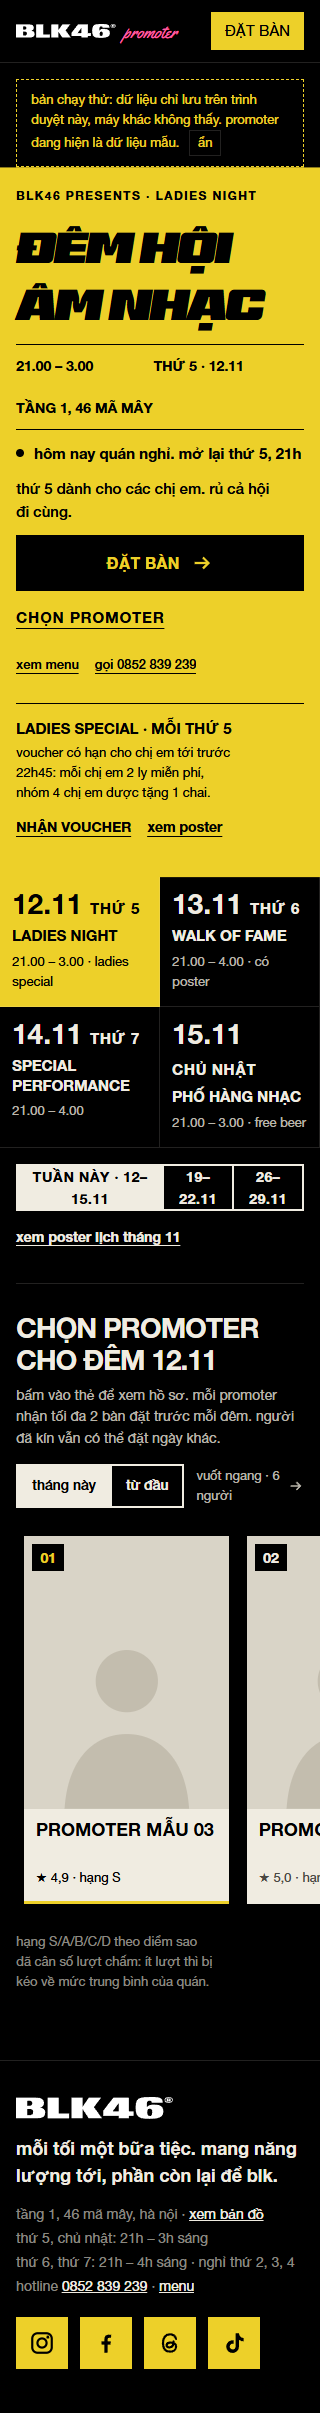
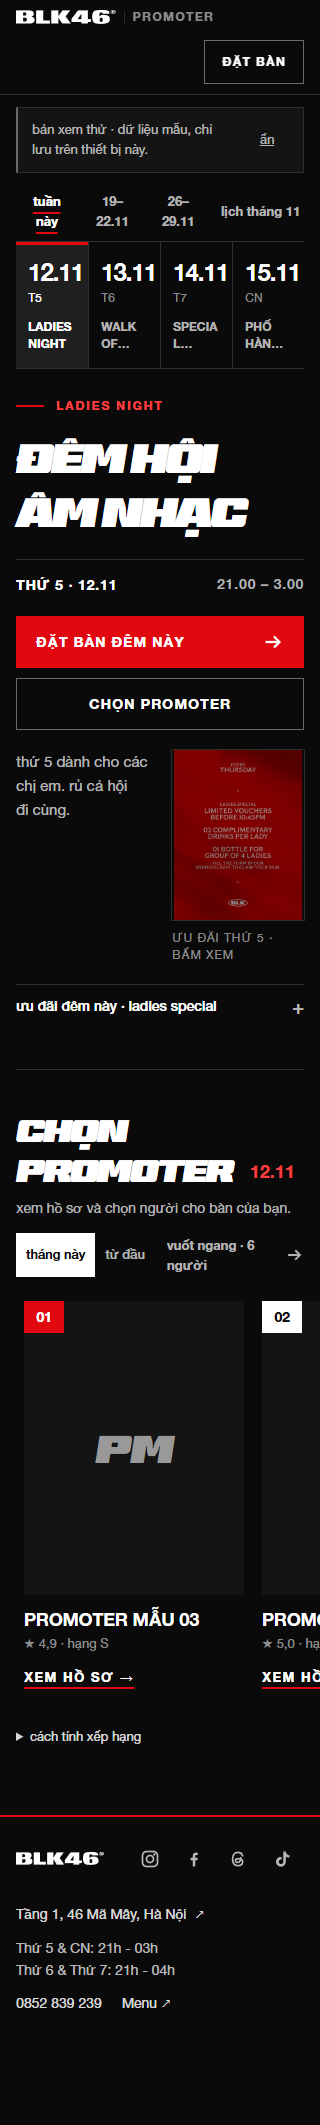
style: pro redesign of guest pages
Professional pass on the black, white and red system after a
three-agent audit (visual, UX flow, accessibility).

- Tokens for surfaces, lines, text tiers and accent hover; no raw hex
  outside :root.
- Header: wordmark with a quiet PROMOTER label, 44px nav targets,
  outlined book button on mobile so the red stays for the hero CTA.
- Night picker: selected night is a dark tile with a red top bar,
  two-line titles on mobile, white focus ring.
- Hero: poster sits beside the event text on mobile, top-aligned on
  desktop; dates scale with the viewport.
- Promoter cards: white rank chips (red only for #01), underlined
  "xem hồ sơ" caption, no jumpy hover.
- Profile sheet: red eyebrow, red rule and outlined forte tag.
- Booking ticket: red top border, neutral event bar, underlined back
  link, clearer input focus.
- Booking errors: message in a red-edged box, the field at fault gets
  focus and aria-invalid, cleared as soon as the guest types; phone is
  checked before date and time.
- Voucher chips: arrow keys ignore modifier keys and same-target moves.
- Footer: red top rule.

QA: token check OK, regression 18/18, typography 5/5, no horizontal
overflow or page errors at 320/390/768/1024/1440.

diff --git a/public/index.html b/public/index.html
@@ -23,9 +23,6 @@
 <link rel="icon" type="image/png" sizes="32x32" href="brand/favicon-32.png?v=3">
 <link rel="apple-touch-icon" href="brand/apple-touch-icon.png?v=3">
 <script type="application/ld+json">{"@context":"https://schema.org","@type":"NightClub","name":"BLK46","url":"https://blk46club.github.io/promoter/","image":"https://blk46club.github.io/promoter/brand/share.jpg","telephone":"+84852839239","address":{"@type":"PostalAddress","streetAddress":"Tầng 1, 46 Mã Mây","addressLocality":"Hà Nội","addressCountry":"VN"},"hasMap":"https://share.google/SntJEvVotOjQeHLYL","hasMenu":"https://blkmenu.vercel.app","openingHoursSpecification":[{"@type":"OpeningHoursSpecification","dayOfWeek":["Thursday","Sunday"],"opens":"21:00","closes":"03:00"},{"@type":"OpeningHoursSpecification","dayOfWeek":["Friday","Saturday"],"opens":"21:00","closes":"04:00"}],"sameAs":["https://www.instagram.com/blk.hanoi/","https://www.threads.com/@blk.hanoi","https://www.tiktok.com/@blk.hanoi","https://www.facebook.com/share/1FHCWCqqY9/"]}</script>
-<link rel="preconnect" href="https://fonts.googleapis.com">
-<link rel="preconnect" href="https://fonts.gstatic.com" crossorigin>
-<link rel="stylesheet" href="https://fonts.googleapis.com/css2?family=Yellowtail&display=swap">
 <link rel="preload" href="fonts/BT-Brik-3XL-Oblique-VI.woff2" as="font" type="font/woff2" crossorigin>
 <style>
 /* Vietnamese extension generated by the owner's VinaDau engine. */
@@ -95,6 +92,14 @@
   --hard:5px 5px 0;
   --hard-press:3px 3px 0;
   --hard-lg:10px 10px 0; /* bóng của poster dán trên tờ flyer vàng */
+  --surface:#141414;
+  --surface-2:#1F1F1F;
+  --line-1:#2E2E2E;
+  --line-2:#6B6B6B;
+  --text-2:#B3B3B3;
+  --text-3:#8C8C8C;
+  --accent-hover:#C2060E;
+  --head-bg:rgba(10,10,10,.92);
   color-scheme:dark;
 }
 *{box-sizing:border-box}
@@ -114,7 +119,7 @@ header.top .wrap{display:flex;align-items:center;gap:16px;padding-block:12px;fle
 .mark{display:inline-flex;align-items:center;gap:10px}
 .mark img{height:18px;width:auto;display:block}
 /* chữ idol cạnh logo: hồng, kiểu chữ ký. màu riêng của trang idol, không thuộc bảng màu chính BLK46 */
-.mark span{font-family:"Yellowtail",cursive;font-weight:400;font-size:var(--fs-xl);line-height:1;color:var(--idol-pink);letter-spacing:0;transform:translateY(1px)}
+.mark span{font-family:var(--body);font-size:var(--fs-2xs);font-weight:700;letter-spacing:.14em;text-transform:uppercase;color:var(--text-3);padding-left:12px;border-left:1px solid var(--line-1);line-height:1;transform:none}
 nav.tabs{display:flex;gap:4px;margin-left:auto;flex-wrap:wrap}
 nav.tabs a{text-decoration:none;padding:6px 12px;border:1px solid transparent;font-size:var(--fs-sm);letter-spacing:.06em;text-transform:uppercase;font-weight:500}
 nav.tabs a[aria-current="page"]{border-color:var(--acid);color:var(--acid)}
@@ -1044,6 +1049,146 @@ body.paper .tk .hold-note{color:var(--paper)}
 body.paper .tk .hold-note.bad{color:var(--bad-text)}
 body.paper .tk .tmap-wrap,body.paper .prv-tags .tag,body.paper .prv-item .tag{border-color:var(--stage-line)}
 body.paper .tk .book-help{border-top-color:var(--line)}
+/* ===== Guest design system: pro redesign 12/11 =====
+   Black stage, white type, red only where it means "act" or "now":
+   primary CTA, kicker rule, selected night, #1 rank, roster date. */
+/* header */
+header.top{background:var(--head-bg);-webkit-backdrop-filter:blur(12px);backdrop-filter:blur(12px);border-bottom-color:var(--line-1)}
+header.top .wrap{min-height:64px;padding-block:10px}
+nav.tabs a{color:var(--text-2);font-size:var(--fs-2xs);font-weight:600;letter-spacing:.12em;padding:8px 12px;min-height:44px;display:inline-flex;align-items:center}
+nav.tabs a:hover{color:var(--paper)}
+nav.tabs a[aria-current="page"]{color:var(--paper);border-color:transparent;box-shadow:inset 0 -2px var(--accent)}
+.hbook{font-family:var(--body);font-size:var(--fs-2xs);letter-spacing:.12em;text-transform:uppercase}
+.hbook:hover{background:var(--accent-hover);color:var(--accent-on)}
+header.top :focus-visible,footer.foot :focus-visible,body.v-lineup header.top :focus-visible,body.v-lineup footer.foot :focus-visible{outline-color:var(--paper)}
+/* focus: white ring everywhere on the black stage */
+body.v-lineup :focus-visible,body.paper #app :focus-visible,.sdlg :focus-visible,.pdlg :focus-visible{outline-color:var(--paper)}
+/* demo / warning banner */
+body.v-lineup .banner[data-kind="warn"],body.paper .banner[data-kind="warn"]{background:var(--surface);color:var(--text-2);border:1px solid var(--line-1);border-left:2px solid var(--line-2);padding:10px 14px;font-size:var(--fs-xs)}
+/* night strip */
+body.v-lineup .wk-row{border-color:var(--line-1)}
+body.v-lineup .wk-n+.wk-n{border-left-color:var(--line-1)}
+body.v-lineup .wk-n{color:var(--text-3);transition:background-color .15s ease,color .15s ease}
+body.v-lineup .wk-d b{color:var(--paper)}
+body.v-lineup .wk-n:hover{background:var(--surface)}
+body.v-lineup .wk-n[aria-pressed="true"],body.v-lineup .wk-n[aria-pressed="true"]:hover{background:var(--surface-2);color:var(--paper);box-shadow:inset 0 3px var(--accent)}
+body.v-lineup .wk-n[aria-pressed="true"] *,body.v-lineup .wk-n[aria-pressed="true"] .wk-d b,body.v-lineup .wk-n[aria-pressed="true"] .wk-x,body.v-lineup .wk-n[aria-pressed="true"] .wk-t{color:inherit}
+body.v-lineup .wk-n:focus-visible{outline:2px solid var(--paper);outline-offset:-4px}
+body.v-lineup .wk-n[aria-pressed="true"]:focus-visible{outline:2px solid var(--paper);outline-offset:-6px}
+@media (max-width:699px){body.v-lineup .wk-t{display:-webkit-box;-webkit-line-clamp:2;-webkit-box-orient:vertical;overflow:hidden;margin-top:6px;font-size:var(--fs-2xs);color:var(--text-2)}}
+body.v-lineup .wk .sq,body.v-lineup .wk-mp{color:var(--text-2);text-decoration:none}
+body.v-lineup .wk .sq:hover,body.v-lineup .wk-mp:hover{color:var(--paper)}
+body.v-lineup .wk .sq[aria-pressed="true"]{color:var(--paper);text-decoration:underline;text-decoration-color:var(--accent);text-decoration-thickness:2px;text-underline-offset:6px}
+/* hero: editorial on black, the red poster carries the colour */
+body.v-lineup .fly{background:transparent;color:var(--paper);padding:0;margin-block:28px 40px;gap:20px var(--gap)}
+body.v-lineup .fly :focus-visible{outline-color:var(--paper);outline-offset:4px}
+body.v-lineup .fly-pre{display:flex;align-items:center;gap:12px;color:var(--acid);font-size:var(--fs-2xs);font-weight:700;letter-spacing:.16em;text-transform:uppercase}
+body.v-lineup .fly-pre::before{content:"";flex:none;width:28px;height:2px;background:var(--accent)}
+body.v-lineup .fly-dj{font-size:min(96px,calc((100vw - 64px) / var(--f,4)))}
+body.v-lineup .fly-row{display:flex;flex-wrap:wrap;justify-content:space-between;gap:4px 16px;margin-top:4px;padding-top:14px;border-top:1px solid var(--line-1);color:var(--paper);font-size:var(--fs-ui);font-weight:700;letter-spacing:.06em;text-transform:uppercase;font-variant-numeric:tabular-nums}
+body.v-lineup .fly-row p:last-child{color:var(--text-2);font-weight:500}
+body.v-lineup .fly-ev{color:var(--text-2);font-size:var(--fs-body);font-weight:400;line-height:1.6}
+body.v-lineup .fly-ev .x{color:var(--text-3);font-size:var(--fs-xs);letter-spacing:.06em}
+body.v-lineup .fly .btn-ink{background:var(--accent);color:var(--accent-on);min-height:52px;padding:0 20px;justify-content:space-between;font-size:var(--fs-ui);letter-spacing:.08em;text-transform:uppercase}
+body.v-lineup .fly .btn-ink:hover{background:var(--accent-hover);color:var(--accent-on)}
+body.v-lineup .fly .btn-ink svg{transition:transform .2s ease}
+body.v-lineup .fly .btn-line{min-height:52px;padding:0 20px;border:1px solid var(--line-2);background:transparent;color:var(--paper);font-size:var(--fs-ui);font-weight:700;letter-spacing:.08em;text-transform:uppercase;text-decoration:none}
+body.v-lineup .fly .btn-line:hover{border-color:var(--paper);color:var(--paper);text-decoration:none}
+body.v-lineup .fly-art .pic{box-shadow:none}
+body.v-lineup .fly-art.pst .pic{border:0;box-shadow:0 0 0 1px var(--line-1)}
+body.v-lineup .fly-cap{color:var(--text-3);font-size:var(--fs-2xs);letter-spacing:.08em;text-transform:uppercase;margin-top:10px}
+body.v-lineup .promo{color:var(--paper);border-color:var(--line-1)}
+body.v-lineup .promo summary::after,body.v-lineup .promo-pst{color:var(--text-2)}
+body.v-lineup .promo-go{color:var(--paper);text-decoration-color:var(--accent)}
+@media (prefers-reduced-motion:no-preference){
+  body.v-lineup .fly .btn-ink:hover svg{transform:translateX(4px)}
+  body.v-lineup .fly-art.pst .pic img{transition:transform .5s cubic-bezier(.2,.7,.2,1)}
+  body.v-lineup .fly-art.pst .pic:hover img{transform:scale(1.02)}
+}
+@media (min-width:700px){
+  body.v-lineup .fly{padding:0;margin-block:36px 48px}
+  body.v-lineup .fly-dj{font-size:min(112px,calc((min(100vw,1180px) - 72px) / var(--f,4)))}
+  body.v-lineup .fly .btn-ink{flex:0 1 auto;min-width:260px}
+  body.v-lineup .fly .btn-line{width:auto}
+}
+@media (min-width:900px){
+  body.v-lineup .fly{--art:340px;--gap:72px;padding:0;margin-block:48px 64px;gap:24px var(--gap)}
+  body.v-lineup .fly-dj{font-size:min(120px,calc((min(100vw,1180px) - 72px - var(--art) - var(--gap)) / var(--f,4)))}
+  body.v-lineup .fly-pre{font-size:var(--fs-xs)}
+  body.v-lineup .fly-row{font-size:var(--fs-lead)}
+  body.v-lineup .fly-ev{font-size:var(--fs-lead)}
+}
+/* roster */
+body.v-lineup .ros{border-top:1px solid var(--line-1);padding-block:40px 56px}
+body.v-lineup .ros-head h2{font-size:clamp(32px,4.4vw,52px);line-height:1.25}
+body.v-lineup .ros-date{color:var(--acid);font-size:clamp(1.125rem,4.5vw,1.5rem)}
+body.v-lineup .ros-head p,body.v-lineup .ros-swipe{color:var(--text-2)}
+body.v-lineup .ros .sq{color:var(--text-2);text-decoration:none}
+body.v-lineup .ros .sq:hover{color:var(--paper);text-decoration:none}
+body.v-lineup .ros .sq[aria-pressed="true"],body.v-lineup .ros .sq[aria-pressed="true"]:hover{background:var(--paper);color:var(--ink)}
+/* promoter cards: photo first, quiet caption, one red mark for #1 */
+body.v-lineup .pc,body.v-lineup .pc.full{background:transparent;color:var(--paper);gap:0;padding-bottom:0}
+body.v-lineup .pc-ph,body.v-lineup .pc:nth-child(even) .pc-ph,body.v-lineup .pc.full .pc-ph,body.v-lineup .pc-ini{background:var(--surface)}
+body.v-lineup .pc-txt{padding:14px 0 0;gap:4px}
+body.v-lineup .pc-name{letter-spacing:-.01em}
+body.v-lineup .pc-meta,body.v-lineup .pc.top .pc-meta,body.v-lineup .pc.full .pc-meta{color:var(--text-3)}
+body.v-lineup .pc-no,body.v-lineup .pc.full .pc-no{left:0;top:0;background:var(--paper);color:var(--ink);min-width:40px;padding:6px 10px;font-size:var(--fs-ui);font-variant-numeric:tabular-nums}
+body.v-lineup .pc.top .pc-no{background:var(--accent);color:var(--accent-on)}
+body.v-lineup .pc.full .pc-ph img{opacity:.4;filter:grayscale(1)}
+body.v-lineup .pc-stamp{inset:auto 0 0 0;display:block}
+body.v-lineup .pc-stamp b{display:block;transform:none;border:0;background:var(--paper);color:var(--ink);font-family:var(--body);font-size:var(--fs-2xs);font-weight:700;letter-spacing:.12em;text-align:center;padding:8px 10px}
+body.v-lineup .pc-txt::after{color:var(--paper);font-size:var(--fs-xs);letter-spacing:.12em;text-transform:uppercase;text-decoration-line:underline;text-decoration-color:var(--accent);text-decoration-thickness:2px;text-underline-offset:5px;margin-top:8px}
+body.v-lineup .pc:focus-visible{outline:2px solid var(--paper);outline-offset:4px}
+@media (hover:hover){
+  body.v-lineup .pc:not([disabled]):not(:focus-visible):hover,body.v-lineup .pc.top:not([disabled]):not(:focus-visible):hover{outline:0;transform:none}
+  body.v-lineup .pc:not([disabled]):hover .pc-name{text-decoration:underline;text-decoration-color:var(--accent);text-decoration-thickness:2px;text-underline-offset:4px}
+  body.v-lineup .pc:not([disabled]):hover .pc-txt::after{text-decoration-color:var(--paper)}
+}
+@media (hover:hover) and (prefers-reduced-motion:no-preference){
+  body.v-lineup .pc:hover{transform:none}
+  body.v-lineup .pc-ph img{transition:transform .5s cubic-bezier(.2,.7,.2,1)}
+  body.v-lineup .pc:not([disabled]):hover .pc-ph img{transform:scale(1.04)}
+}
+/* primary actions: one red, darker on hover (white text keeps 6.3:1) */
+.sdlg .sheet-cta:hover,.mbar-go:hover,.pdlg .btn-acid:hover,body.paper .tk button.cta[type="submit"]:hover,body.paper .cta:not([type="submit"]):not(.cta-line):hover{background:var(--accent-hover);color:var(--accent-on)}
+/* footer and mobile bar */
+footer.foot,body.v-lineup footer.foot,body.paper footer.foot{border-top:2px solid var(--accent)}
+.mbar{background:var(--head-bg);-webkit-backdrop-filter:blur(12px);backdrop-filter:blur(12px);border-top:1px solid var(--line-1)}
+.mbar-tel{border-color:var(--line-2);color:var(--paper)}
+.mbar-tel:hover{background:var(--surface);color:var(--paper)}
+/* booking + voucher forms: boxed fields, clear labels */
+body.paper .tk{border:1px solid var(--line-1);border-top:3px solid var(--accent);background:transparent}
+body.paper .tk label.f,body.paper .tk div.f{color:var(--text-2);font-size:var(--fs-xs);font-weight:600;letter-spacing:.04em;gap:8px}
+body.paper .tk label.f input,body.paper .tk label.f select{background:var(--surface);color:var(--paper);border:1px solid var(--line-2);border-radius:0;min-height:48px;padding:0 14px;font-size:var(--fs-lead);font-weight:400;letter-spacing:0}
+body.paper .tk label.f input:focus,body.paper .tk label.f select:focus{background:var(--surface);border-color:var(--paper);box-shadow:0 0 0 1px var(--paper);outline:2px solid transparent;outline-offset:2px}
+body.paper .tk label.f input::placeholder{color:var(--text-3)}
+body.paper .tk .bsal,body.paper .tk .tqb{border:1px solid var(--line-2);color:var(--paper)}
+body.paper .tk .bsal[aria-checked="true"],body.paper .tk .tqb[aria-pressed="true"]{background:var(--paper);color:var(--ink);border-color:var(--paper)}
+body.paper .tk .bsal:hover:not([aria-checked="true"]),body.paper .tk .tqb:hover:not(:disabled):not([aria-pressed="true"]){background:var(--surface);color:var(--paper);box-shadow:none;border-color:var(--paper)}
+@media (max-width:480px){.mark span{font-size:var(--fs-2xs);letter-spacing:.12em;padding-left:8px}}
+/* review round: mobile header, hero, profile, ticket, errors */
+@media (max-width:699px){
+  body.v-lineup .hbook{background:transparent;color:var(--paper);box-shadow:inset 0 0 0 1px var(--line-2)}
+  body.v-lineup .hbook:hover{background:var(--surface);color:var(--paper);box-shadow:inset 0 0 0 1px var(--paper)}
+  body.v-lineup .fly{--art:clamp(132px,40vw,176px)}
+  body.v-lineup .fly-ev,body.v-lineup .fly-art{grid-row:3}
+  body.v-lineup .promo{grid-row:4}
+}
+@media (min-width:900px){body.v-lineup .fly-art{align-self:start}}
+body.paper .back:not(.back-swap){display:inline-flex;align-items:center;min-height:44px;font-size:var(--fs-ui);color:var(--paper);text-decoration:underline;text-decoration-color:var(--line-2);text-underline-offset:4px}
+body.paper .back:not(.back-swap):hover{background:transparent;color:var(--paper);text-decoration-color:var(--accent)}
+.sdlg .sheet-back{min-height:44px}
+.sdlg .sheet-eb{color:var(--acid)}
+.sdlg .sheet-dl{border-top:2px solid var(--accent)}
+.sdlg .sheet-st i b{background:var(--accent)}
+.sdlg .sheet .forte span{border-color:var(--accent);color:var(--paper)}
+body.paper .tk .tk-ev{background:var(--surface-2);border-left-color:var(--line-2)}
+body.paper .tk .tk-face{background:var(--surface)}
+body.paper .tk .tk-row p{padding-inline:16px}
+@media (min-width:700px){body.paper .tk .tk-row p{padding-inline:28px}}
+body.paper #bErr:not(:empty){padding:12px 14px;background:var(--surface);border-left:3px solid var(--accent);color:var(--paper)}
+body.paper .tk label.f input[aria-invalid="true"]{border-color:var(--acid)}
+section.done .hold-note{color:var(--paper);border-left:3px solid var(--accent);padding-left:12px}
 </style>
 </head>
 <body class="v-lineup">
@@ -1522,7 +1667,7 @@ function nightsHTML(){
 function cardHTML(r,td){
   const i=r.idol,cid=coverId(i),ld=loadOf(td,i.id),fl=ld>=LOAD_MAX;
   const meta=(r.n?`★ ${fmt1(r.avg)} · hạng ${grade(r)}`:"chưa có hạng")+(ld&&!fl?` · <span class="nw">${loadTile(ld)}</span>`:"");
-  return `<button type="button" class="pc${fl?" full":""}${r.rank===1?" top":""}" data-id="${esc(i.id)}" aria-haspopup="dialog" aria-describedby="rosterTitle">
+  return `<button type="button" class="pc${fl?" full":""}${r.rank===1?" top":""}" data-id="${esc(i.id)}" aria-haspopup="dialog">
     <span class="pc-tape" aria-hidden="true"></span>
     <span class="pc-ph"><span class="pc-ini" aria-hidden="true">${esc(initials(i.stageName))}</span>${cid?`<img src="${esc(cid)}" alt="" loading="lazy" onerror="this.remove()">`:""}${fl?`<span class="pc-stamp"><b>kín bàn</b></span>`:""}</span>
     ${r.rank?`<span class="pc-no">${pad2(r.rank)}</span>`:""}
@@ -1927,15 +2072,15 @@ function renderVoucher(dow){
       <div class="rowbtns"><a class="cta" href="#book">giữ bàn luôn</a><a class="cta cta-line" href="#lineup">về trang chính</a><button type="button" class="linkbtn" id="vcAgain">đăng ký cho người khác</button></div></section>`;
     document.getElementById("vcAgain").onclick=()=>{S.vc=null;render()};return}
   const can=!!S.db;const sizes=VC_SIZES[dow]||[];
-  const chips=(cls,list,cur,label)=>`<div class="tags" role="radiogroup" aria-label="${label}">${list.map(([v,t])=>`<button type="button" class="chip bsal ${cls}" role="radio" data-v="${v}" aria-checked="${cur===v}">${t}</button>`).join("")}</div>`;
+  const chips=(cls,list,cur,label)=>`<div class="tags" role="radiogroup" aria-label="${label}">${list.map(([v,t],k)=>`<button type="button" class="chip bsal ${cls}" role="radio" data-v="${v}" aria-checked="${cur===v}" tabindex="${cur===v||(!list.some(([w])=>w===cur)&&k===0)?0:-1}">${t}</button>`).join("")}</div>`;
   app.innerHTML=`${banner()}<a class="back" href="#lineup">← về trang chính</a>
   <div class="book-wrap solo"><section class="tk vc" aria-label="nhận voucher ${esc(p.tag.toLowerCase())}">
     <div class="tk-head"><div class="tk-who"><p class="tk-pre">NHẬN VOUCHER</p><h1 class="tk-name">${esc(p.tag)}</h1><p class="tk-meta">${esc(p.line)}</p></div></div>
     <div class="tk-row"><p>MỖI ${esc(DAY_FULL[dow])}</p><p>TỚI TRƯỚC ${esc(before)}</p><p>TẦNG 1, 46 MÃ MÂY</p></div>
     <form class="idol" id="vcForm">
       <div class="fields vf">
-        <label class="f">tên bạn *<input id="v_name" required maxlength="40" autocomplete="name" placeholder="vd Linh" value="${esc(V.name)}"></label>
-        <label class="f">số điện thoại *<input id="v_phone" required inputmode="tel" maxlength="12" autocomplete="tel" placeholder="vd 09xx xxx xxx" value="${esc(V.phone)}"></label>
+        <label class="f">tên bạn *<input id="v_name" required maxlength="40" autocomplete="name" autocapitalize="words" enterkeyhint="next" placeholder="vd Linh" value="${esc(V.name)}"></label>
+        <label class="f">số điện thoại *<input id="v_phone" required inputmode="tel" maxlength="16" enterkeyhint="next" autocomplete="tel" placeholder="vd 09xx xxx xxx" value="${esc(V.phone)}"></label>
         <label class="f">ngày tới (${esc(DAY_FULL[dow].toLowerCase())}) *<input id="v_date" type="text" inputmode="numeric" maxlength="10" autocomplete="off" placeholder="vd ${esc(isoToDM(nextDowIso(dow)))}" data-date required value="${esc(V.dateText)}"><small class="dhint">${esc(dateHint(V.dateText))}</small></label>
         <label class="f">giờ dự kiến tới<input id="v_time" type="text" inputmode="numeric" maxlength="5" autocomplete="off" placeholder="vd 22:00" data-time value="${esc(V.time)}"></label>
         ${lady?`<div class="f wide"><span>bạn đi *</span>${chips("vmode",[["solo","một mình"],["group","theo nhóm"]],V.mode,"đi một mình hay theo nhóm")}</div>
@@ -1951,6 +2096,7 @@ function renderVoucher(dow){
   const sync=()=>{V.name=val("v_name");V.phone=val("v_phone");V.dateText=val("v_date");V.time=val("v_time")};
   app.querySelectorAll(".vmode").forEach(x=>x.onclick=()=>{sync();V.mode=x.dataset.v;if(V.mode==="solo")V.size="";V.err="";render()});
   app.querySelectorAll(".vsize").forEach(x=>x.onclick=()=>{sync();V.size=V.size===x.dataset.v&&lady?"":x.dataset.v;V.err="";render()});
+  const chipKeys=sel=>{const g=[...app.querySelectorAll(sel)];g.forEach((x,k)=>x.addEventListener("keydown",e=>{if(e.altKey||e.ctrlKey||e.metaKey||e.shiftKey)return;const step={ArrowRight:1,ArrowDown:1,ArrowLeft:-1,ArrowUp:-1}[e.key];if(!step&&e.key!=="Home"&&e.key!=="End")return;e.preventDefault();const n=e.key==="Home"?0:e.key==="End"?g.length-1:(k+step+g.length)%g.length;if(n===k)return;const v=g[n].dataset.v;g[n].click();app.querySelector(`${sel}[data-v="${v}"]`)?.focus({preventScroll:true})}))};chipKeys(".vmode");chipKeys(".vsize");
   const vd=document.getElementById("v_date");vd.addEventListener("input",()=>setTimeout(()=>{V.dateText=vd.value},0));
   const vt=document.getElementById("v_time");vt.addEventListener("input",()=>setTimeout(()=>{V.time=vt.value},0));
   document.getElementById("vcForm").onsubmit=async ev=>{
@@ -2001,8 +2147,8 @@ function renderBook(idolId){
     <form class="idol" id="bookForm">
       <div class="fields">
         <div class="f"><span>danh xưng *</span><div class="tags" role="radiogroup" aria-label="danh xưng" aria-required="true">${["Mr","Miss"].map((t,k)=>`<button type="button" class="chip bsal" role="radio" data-v="${t}" aria-checked="${B.salutation===t}" tabindex="${B.salutation===t||!B.salutation&&k===0?0:-1}">${t}</button>`).join("")}</div></div>
-        <label class="f">tên bạn *<input id="b_name" required maxlength="40" autocomplete="given-name" placeholder="vd Nam" value="${esc(B.guestName)}"></label>
-        <label class="f">số điện thoại *<input id="b_phone" required inputmode="tel" maxlength="12" autocomplete="tel" placeholder="vd 09xx xxx xxx" value="${esc(B.phone)}"></label>
+        <label class="f">tên bạn *<input id="b_name" required maxlength="40" autocomplete="given-name" autocapitalize="words" enterkeyhint="next" placeholder="vd Nam" value="${esc(B.guestName)}"></label>
+        <label class="f">số điện thoại *<input id="b_phone" required inputmode="tel" maxlength="16" enterkeyhint="next" autocomplete="tel" placeholder="vd 09xx xxx xxx" value="${esc(B.phone)}"></label>
         <label class="f">ngày *<input id="b_date" type="text" inputmode="numeric" maxlength="10" autocomplete="off" placeholder="vd 08/11" data-date required value="${esc(B.dateText)}"><small class="dhint">${esc(dateHint(B.dateText))}</small><small class="load-note" id="loadNote" role="status"></small></label>
         <label class="f">giờ đến *<input id="b_time" type="text" inputmode="numeric" maxlength="5" autocomplete="off" placeholder="vd 22:30" data-time required value="${esc(B.time)}"><span class="tq" role="group" aria-label="chọn nhanh giờ đến">${QUICK_TIMES.map(t=>`<button type="button" class="tqb" data-tq="${t}" aria-pressed="${B.time===t}">${t}</button>`).join("")}</span></label>
         <label class="f">số người<input id="b_guests" inputmode="numeric" maxlength="3" placeholder="vd 4" value="${esc(B.guests)}"></label>
@@ -2052,14 +2198,15 @@ function renderBook(idolId){
   document.getElementById("bookForm").onsubmit=async ev=>{
     ev.preventDefault();sync();
     const phone=B.phone.replace(/\D/g,"");
-    if(!B.salutation){B.err="chọn danh xưng Mr hoặc Miss.";return render()}
+    const fail=(msg,sel)=>{B.err=msg;render();const el=app.querySelector(sel);if(!el)return;if(sel[0]==="#"){el.setAttribute("aria-invalid","true");el.addEventListener("input",()=>el.removeAttribute("aria-invalid"),{once:true})}el.focus()};
+    if(!B.salutation)return fail("chọn danh xưng Mr hoặc Miss.",".bsal");
+    if(phone.length<9||phone.length>11)return fail("số điện thoại chưa đúng.","#b_phone");
     const date=dmToIso(B.dateText);
-    if(!date){B.err="ngày chưa đúng, gõ kiểu 08/11.";return render()}
-    if(date<todayStr()){B.err="ngày này đã qua rồi.";return render()}
-    if(!anyone&&loadFull(date,idolId)){B.err=`${i.stageName} đã đủ ${LOAD_MAX} khách đặt trước ngày này, chọn ngày khác nhé.`;return render()}
-    if(!okTime(B.time)){B.err="giờ đến chưa đúng, gõ kiểu 22:30.";return render()}
-    if(arrivalPast(date,B.time,Date.now())){B.err=ARRIVAL_PAST_MSG;return render()}
-    if(phone.length<9||phone.length>11){B.err="số điện thoại chưa đúng.";return render()}
+    if(!date)return fail("ngày chưa đúng, gõ kiểu 08/11.","#b_date");
+    if(date<todayStr())return fail("ngày này đã qua rồi.","#b_date");
+    if(!anyone&&loadFull(date,idolId))return fail(`${i.stageName} đã đủ ${LOAD_MAX} khách đặt trước ngày này, chọn ngày khác nhé.`,"#b_date");
+    if(!okTime(B.time))return fail("giờ đến chưa đúng, gõ kiểu 22:30.","#b_time");
+    if(arrivalPast(date,B.time,Date.now()))return fail(ARRIVAL_PAST_MSG,"#b_time");
     const table=B.table&&TABLE_SPOTS.some(x=>x[0]===B.table)?B.table:"";
     if(table&&HOLDS.date===date&&HOLDS.taken.has(table)){B.err="bàn "+table+" ngày này đã có khách đặt, chọn bàn khác nhé.";B.table="";return render()}
     B.busy=true;B.err="";render();
